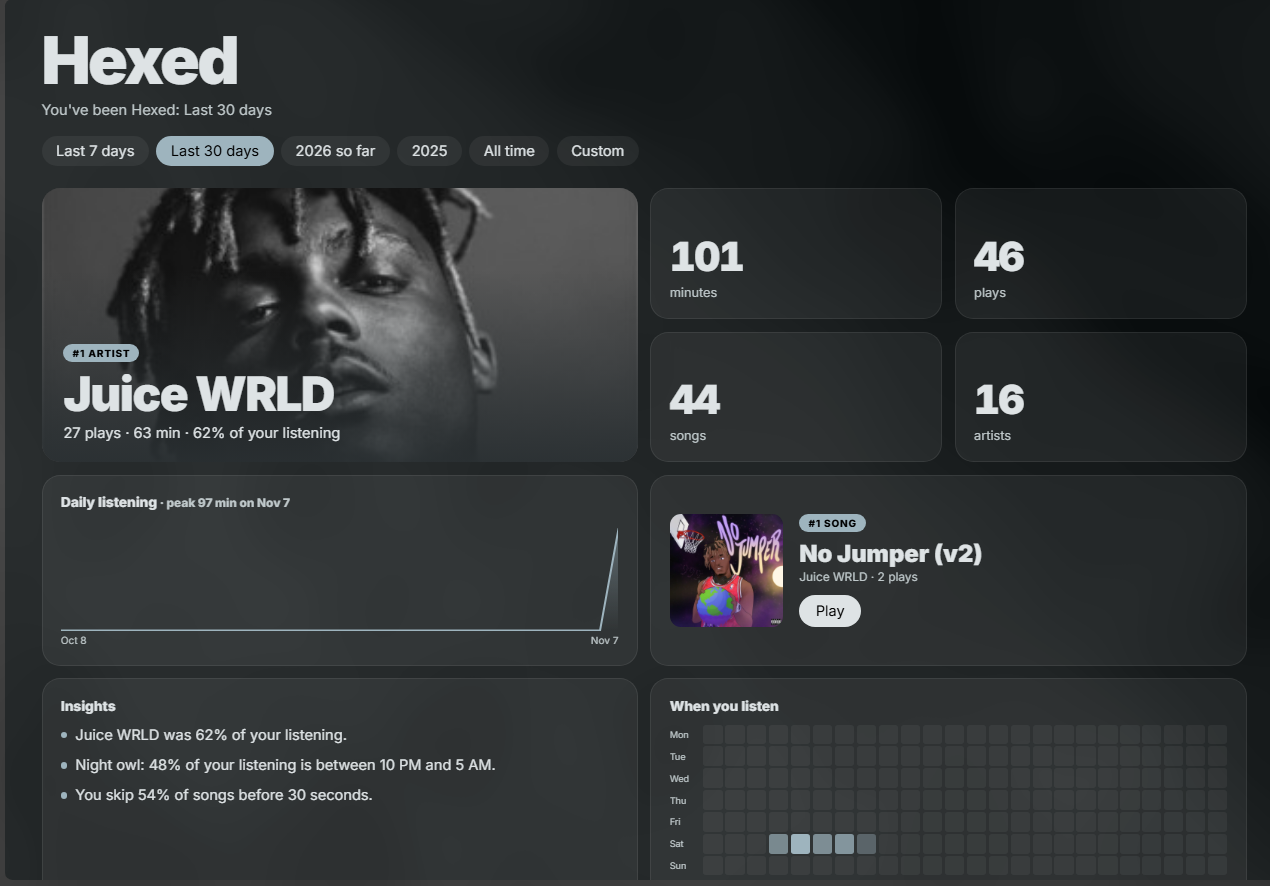
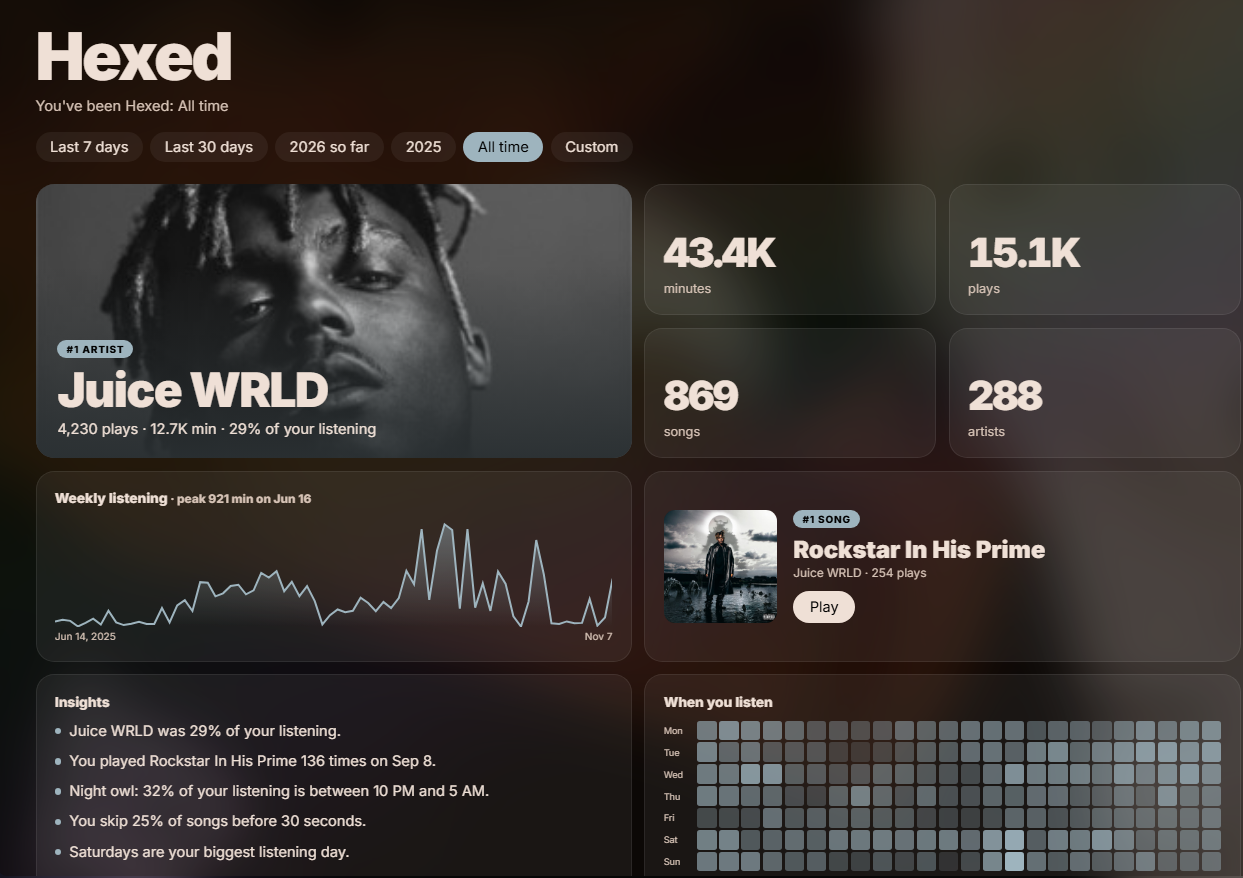
Hexed graph: show the year on older dates and each point's details on hover

diff --git a/Hexed/index.js b/Hexed/index.js
@@ -112,6 +112,7 @@ function HexedApp() {
   const [showAll, setShowAll] = R.useState(false);
   const [hero, setHero] = R.useState(null); // { photo, cover, artist }
   const [accent, setAccent] = R.useState(null);
+  const [hover, setHover] = R.useState(null); // index of the graph point under the mouse
   const fileRef = R.useRef(null);
 
   const load = () => HexedStore.all().then(setRecs).catch(e => setMsg("Couldn't read your data: " + e.message));
@@ -198,20 +199,43 @@ function HexedApp() {
 
   function Activity() {
     const start = Number.isFinite(from) ? from : st.first, end = Math.min(Number.isFinite(to) ? to : now, now);
-    const pts = [];
-    for (let t = new Date(new Date(start).toDateString()).getTime(); t <= end; t += DAY) pts.push([t, st.days.get(HexedCore.dayStr(t)) || 0]);
+    const pts = HexedCore.calendarDays(start, end).map(t => [t, st.days.get(HexedCore.dayStr(t)) || 0]);
     let series = pts;
     if (pts.length > 180) { series = []; for (let i = 0; i < pts.length; i += 7) series.push([pts[i][0], pts.slice(i, i + 7).reduce((s, p) => s + p[1], 0)]); }
     const W = 600, H = 120, max = Math.max(1, ...series.map(p => p[1]));
     const x = i => (series.length < 2 ? W / 2 : (i / (series.length - 1)) * W), yv = v => H - (v / max) * (H - 8);
     const line = series.map((p, i) => `${i ? "L" : "M"}${x(i).toFixed(1)},${yv(p[1]).toFixed(1)}`).join("");
-    const dayLabel = t => new Date(t).toLocaleDateString(undefined, { month: "short", day: "numeric" });
+    const dates = t => new Intl.DateTimeFormat(undefined, { month: "short", day: "numeric", ...(new Date(t).getFullYear() !== y && { year: "numeric" }) });
+    const dayLabel = t => dates(t).format(t);
+    const pick = i => setHover(Math.max(0, Math.min(series.length - 1, i)));
+    const graphEvents = {
+      onMouseMove: e => { const b = e.currentTarget.getBoundingClientRect(); pick(Math.round(((e.clientX - b.left) / b.width) * (series.length - 1))); },
+      onMouseLeave: () => setHover(null),
+      onBlur: () => setHover(null),
+      onKeyDown: e => { const d = { ArrowLeft: -1, ArrowRight: 1 }[e.key]; if (d) { e.preventDefault(); pick(hover === null ? series.length - 1 : hover + d); } },
+    };
+    const p = series[hover];
+    let marker = null;
+    if (p) {
+      const left = (x(hover) / W) * 100, lastDay = series === pts ? p[0] : pts[Math.min(hover * 7 + 6, pts.length - 1)][0];
+      const s = HexedCore.stats(recs, Math.max(p[0], from), series[hover + 1]?.[0] ?? to, 1), topSong = s.topSongs[0], topArt = s.topArtists[0];
+      marker = h(R.Fragment, null,
+        h("span", { className: "hx-cross", style: { left: left + "%" } }),
+        h("span", { className: "hx-dot", style: { left: left + "%", top: (yv(p[1]) / H) * 100 + "%" } }),
+        h("div", { className: "hx-tip", role: "status", style: left > 50 ? { right: `calc(${100 - left}% + 12px)` } : { left: `calc(${left}% + 12px)` } },
+          h("b", null, dates(p[0]).formatRange(p[0], lastDay)),
+          h("div", null, `${mins(p[1])} min · ${playsTxt(s.plays)}`),
+          topSong && h("div", null, h("span", { className: "hx-muted" }, "Top song "), topSong.n),
+          topArt && h("div", null, h("span", { className: "hx-muted" }, "Top artist "), topArt.a)));
+    }
     return h("div", { className: "hx-card hx-wide" },
       h("div", { className: "hx-card-title" }, series === pts ? "Daily listening" : "Weekly listening", st.bestDay && h("span", { className: "hx-muted" }, ` · peak ${mins(st.bestDay.ms)} min on ${dayLabel(Date.parse(st.bestDay.day + "T12:00"))}`)),
-      h("svg", { viewBox: `0 0 ${W} ${H}`, preserveAspectRatio: "none", className: "hx-area", role: "img", "aria-label": "Listening per day" },
-        h("defs", null, h("linearGradient", { id: "hxg", x1: 0, x2: 0, y1: 0, y2: 1 }, h("stop", { offset: "0%", stopColor: "var(--hx-accent)", stopOpacity: 0.45 }), h("stop", { offset: "100%", stopColor: "var(--hx-accent)", stopOpacity: 0 }))),
-        series.length > 1 && h("path", { d: `${line}L${W},${H}L0,${H}Z`, fill: "url(#hxg)" }),
-        h("path", { d: line, fill: "none", stroke: "var(--hx-accent)", strokeWidth: 2, vectorEffect: "non-scaling-stroke" })),
+      h("div", { className: "hx-graph", role: "group", tabIndex: 0, "aria-label": "Listening graph. Left and right arrows show each point.", ...graphEvents },
+        h("svg", { viewBox: `0 0 ${W} ${H}`, preserveAspectRatio: "none", className: "hx-area", role: "img", "aria-label": "Listening per day" },
+          h("defs", null, h("linearGradient", { id: "hxg", x1: 0, x2: 0, y1: 0, y2: 1 }, h("stop", { offset: "0%", stopColor: "var(--hx-accent)", stopOpacity: 0.45 }), h("stop", { offset: "100%", stopColor: "var(--hx-accent)", stopOpacity: 0 }))),
+          series.length > 1 && h("path", { d: `${line}L${W},${H}L0,${H}Z`, fill: "url(#hxg)" }),
+          h("path", { d: line, fill: "none", stroke: "var(--hx-accent)", strokeWidth: 2, vectorEffect: "non-scaling-stroke" })),
+        marker),
       h("div", { className: "hx-axis" }, h("span", null, dayLabel(series[0]?.[0] ?? now)), h("span", null, dayLabel(series[series.length - 1]?.[0] ?? now))));
   }
 
@@ -335,6 +359,12 @@ var HEXED_CSS = `
 .hx-delta.up{background:color-mix(in srgb,var(--hx-accent) 22%,transparent);color:var(--hx-accent)}
 .hx-delta.down{background:rgba(255,255,255,.08);color:var(--spice-subtext)}
 .hx-area{width:100%;height:120px;display:block}
+.hx-graph{position:relative;cursor:crosshair}
+.hx-cross{position:absolute;top:0;bottom:0;width:1px;background:var(--hx-accent);opacity:.5;pointer-events:none}
+.hx-dot{position:absolute;width:9px;height:9px;border-radius:50%;background:var(--hx-accent);box-shadow:0 0 0 2px rgba(0,0,0,.5);transform:translate(-50%,-50%);pointer-events:none}
+.hx-tip{position:absolute;top:0;max-width:260px;padding:8px 12px;border:1px solid var(--hx-line);border-radius:10px;background:rgba(0,0,0,.85);font-size:12px;line-height:1.5;pointer-events:none;z-index:2}
+.hx-tip div{overflow:hidden;text-overflow:ellipsis;white-space:nowrap}
+.hx-tip .hx-muted{font-size:12px}
 .hx-axis{display:flex;justify-content:space-between;color:var(--spice-subtext);font-size:11px;margin-top:4px}
 .hx-song{display:flex;gap:18px;align-items:center}
 .hx-song .hx-art{width:124px;height:124px;border-radius:12px;flex:none}

diff --git a/Hexed/core.js b/Hexed/core.js
@@ -85,6 +85,13 @@ var HexedCore = globalThis.HexedCore = (() => {
 
   const dayStr = t => { const d = new Date(t); return `${d.getFullYear()}-${String(d.getMonth() + 1).padStart(2, "0")}-${String(d.getDate()).padStart(2, "0")}`; };
 
+  // Local midnights from start's day until end. Steps by calendar, because a clock change makes a day 23 or 25 hours.
+  function calendarDays(start, end) {
+    const d = new Date(start), out = [];
+    for (let i = 0, t; (t = new Date(d.getFullYear(), d.getMonth(), d.getDate() + i).getTime()) < end; i++) out.push(t);
+    return out;
+  }
+
   // Stats for records whose start is in [from, to). Times are local.
   function stats(records, from = -Infinity, to = Infinity, top = 50) {
     const key = keyer(records);
@@ -192,6 +199,6 @@ var HexedCore = globalThis.HexedCore = (() => {
     return best;
   }
 
-  return { PLAY_MS, isPlay, shouldResume, nameKey, parseExport, merge, counts, stats, prevRange, delta, newArtists, insights, longestStreak, dayStr };
+  return { PLAY_MS, isPlay, shouldResume, nameKey, parseExport, merge, counts, stats, prevRange, delta, newArtists, insights, longestStreak, dayStr, calendarDays };
 })();
 if (typeof module !== "undefined") module.exports = HexedCore;

diff --git a/Hexed/test/core.test.js b/Hexed/test/core.test.js
@@ -3,6 +3,20 @@ const test = require("node:test");
 const assert = require("node:assert/strict");
 const C = require("../core.js");
 
+test("calendarDays gives every date once across clock changes and stops before end", () => {
+  const tz = process.env.TZ;
+  process.env.TZ = "America/New_York";
+  try {
+    const days = C.calendarDays(new Date(2025, 9, 30, 15).getTime(), new Date(2026, 2, 10).getTime()).map(C.dayStr);
+    assert.equal(days[0], "2025-10-30");
+    assert.equal(days[days.length - 1], "2026-03-09");
+    assert.equal(days.length, 131);
+    assert.equal(new Set(days).size, days.length);
+  } finally {
+    if (tz === undefined) delete process.env.TZ; else process.env.TZ = tz;
+  }
+});
+
 const ext = (ts, ms, uri, n = "Song", a = "Artist") => ({ ts, ms_played: ms, spotify_track_uri: uri, master_metadata_track_name: n, master_metadata_album_artist_name: a, master_metadata_album_album_name: "Album", ip_addr: "0.0.0.0" });
 
 test("parses extended history, drops podcasts and private fields", () => {

diff --git a/Hexed/README.md b/Hexed/README.md
@@ -15,7 +15,8 @@ counts every play itself and turns it into a page I can check whenever I feel li
   dates, and you get:
   - your top artist, songs and albums, with covers
   - minutes, plays and how that compares to the period before
-  - a chart of each day and a heatmap of when you listen
+  - a chart of your listening, where moving along it shows the minutes, plays, top song and top artist for that day or week
+  - a heatmap of when you listen
   - a few plain-words insights, like "Night owl: 97% of your listening is between 10 PM and 5 AM"
 - Imports your full Spotify history, so your stats go back years and include plays from your phone.
 - **Back up** saves everything to a file you can import again after reinstalling.
